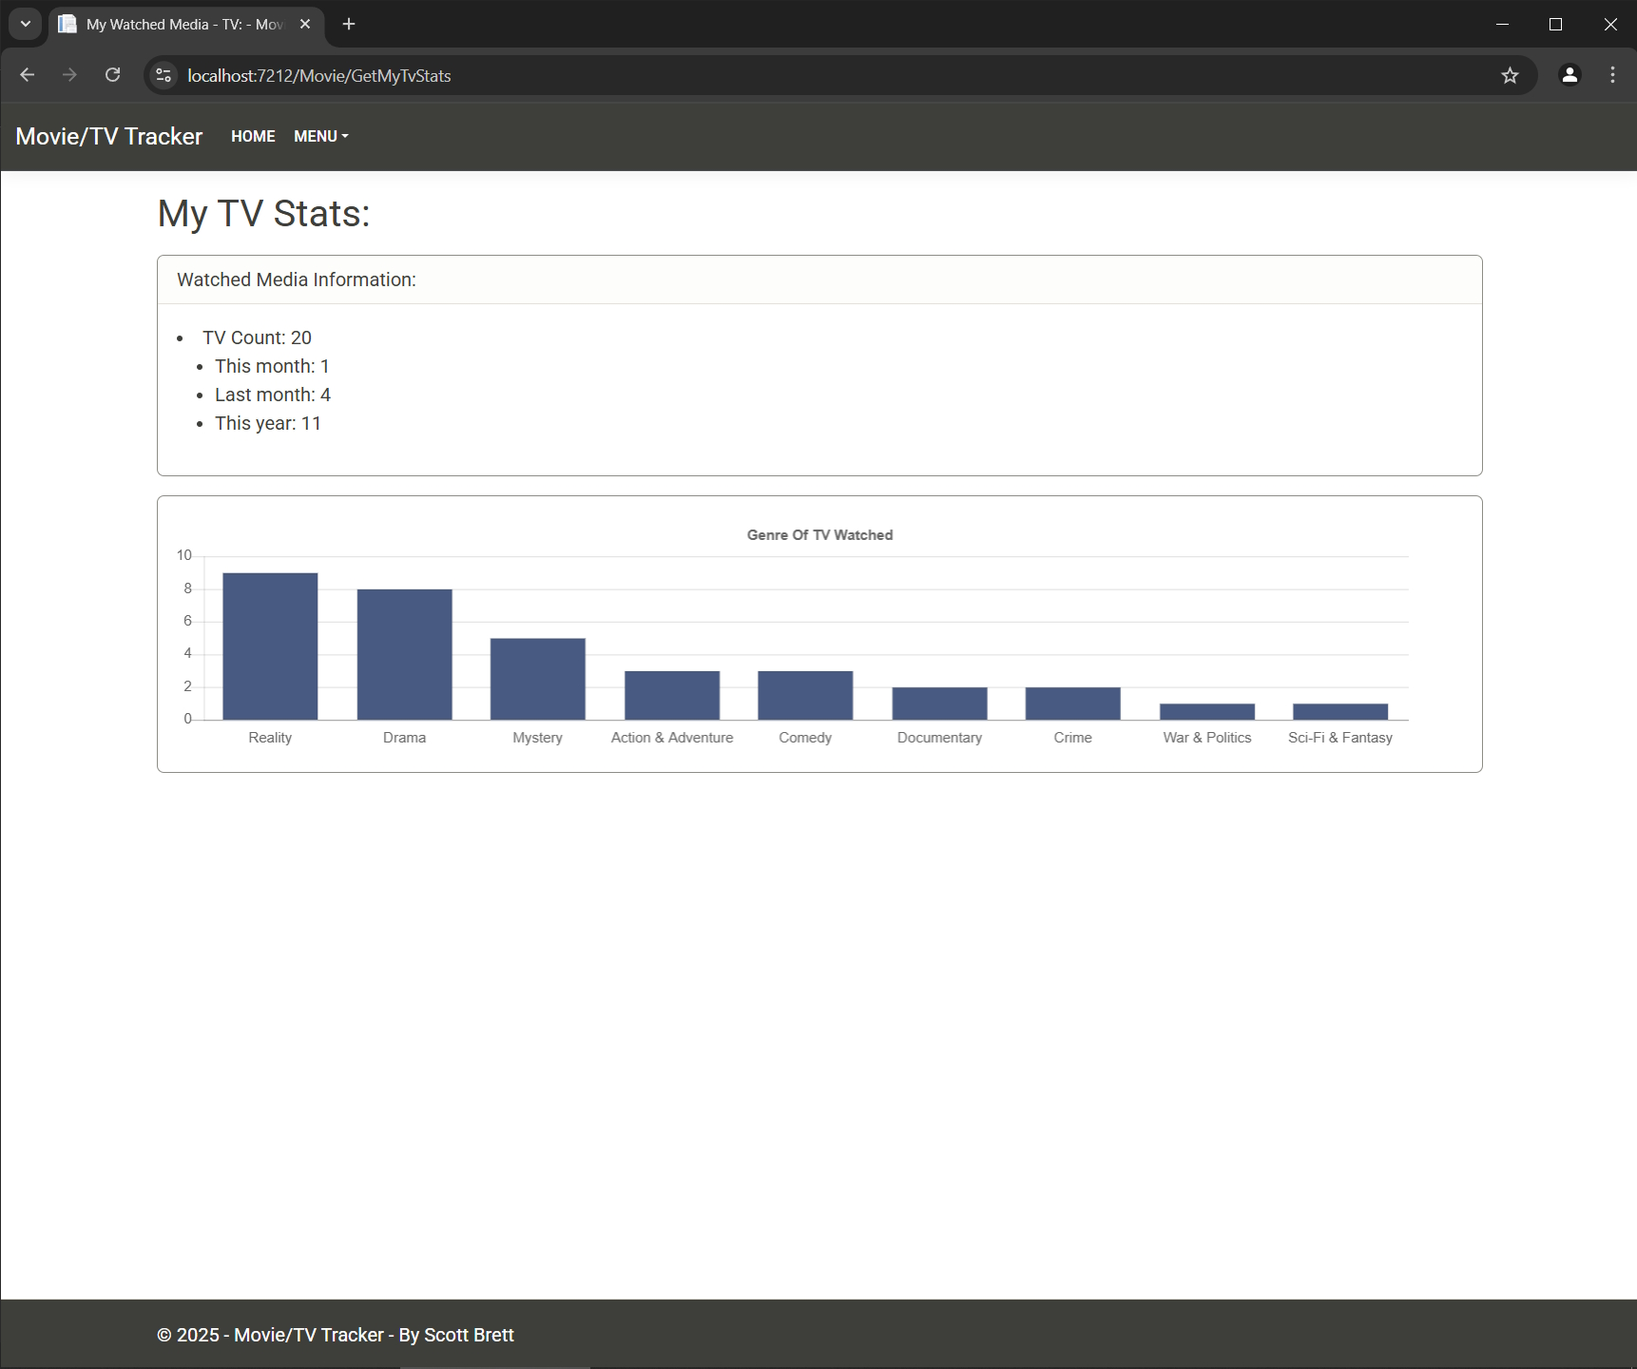
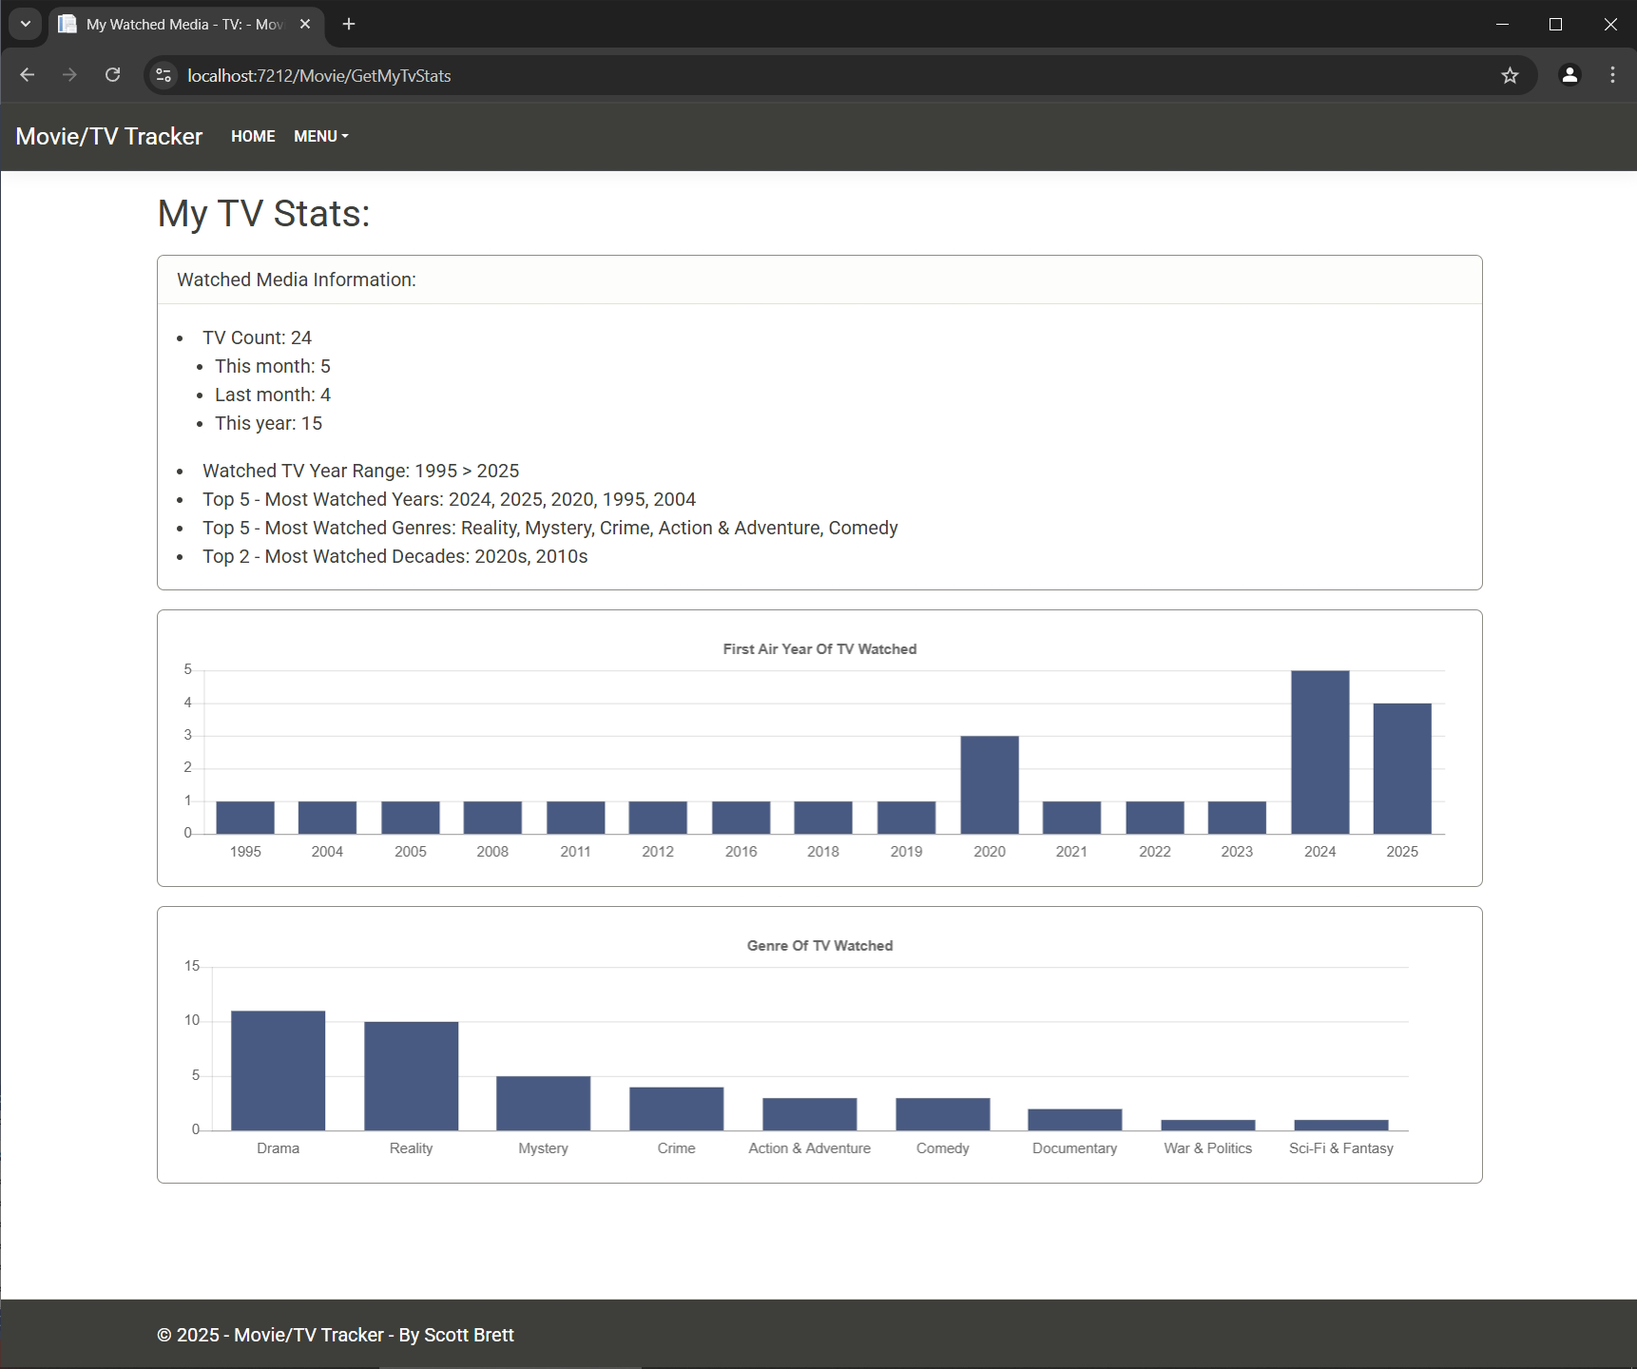
Updated images.  Now shows the same amount of watched media stat data for TV content as it does for Films.  Also performed some code cleanup and class renaming where appropriate for new updated functionality.

Changed region(s): [[0.1231, 0.3438, 0.8926, 0.625], [0.1231, 0.7188, 0.8618, 0.8438], [0.4617, 0.6875, 0.554, 0.7188]]

diff --git a/MovieTvTracker.Web/Class/GetStatistics.cs b/MovieTvTracker.Web/Class/GetStatistics.cs
@@ -7,19 +7,20 @@ namespace MovieTvTracker.Web.Class
     public class GetStatistics : IGetStatistics
     {
         /// <summary>
-        /// Collect data on the release year, genre of each film title and year range watched and save it to the 'stats' object for consumption later.
+        /// Loop through all watched media film results, aquire data on the year, year range, decade, genre for consumption by the view at a later stage
         /// </summary>
         /// <param name="media"></param>
         /// <returns></returns>
+        /// <exception cref="Exception"></exception>
         public IMedia GetFilmYearsRangeAndGenres(IMedia media)
         {
-            foreach (WatchedMediaItem item in media.WatchedMediaResults.WatchedFilms)
+            try
             {
-                try
+                foreach (WatchedMediaItem item in media.WatchedMediaResults.WatchedFilms)
                 {
                     DateTime releaseYear = Convert.ToDateTime(item.ResultReturn.FilmIdResult.release_date);
 
-                    RecordFilmDecade(media.FavoriteFilmDecadeResults, releaseYear.Year);
+                    RecordMediaDecade(media.FavoriteMediaDecadeResults, releaseYear.Year);
 
                     if (media.Stats.FilmYears.Any(x => x.Year == releaseYear.Year))
                     {
@@ -27,60 +28,84 @@ namespace MovieTvTracker.Web.Class
                     }
                     else
                     {
-                        media.Stats.FilmYears.Add(new FilmYear() { Year = releaseYear.Year, Qty = 1 });
+                        media.Stats.FilmYears.Add(new ContentYear() { Year = releaseYear.Year, Qty = 1 });
                     }
-                }
-                catch (Exception ex)
-                {
-                    // Handle any bad data issues from conversion of 'release_date' to DateTime yet still process working resuls
-                    // TODO: Add error handling
+
+                    foreach (Genre genre in item.ResultReturn.FilmIdResult.genres)
+                    {
+                        if (media.Stats.FilmGenres.Any(x => x.Genre == genre.name))
+                        {
+                            media.Stats.FilmGenres.Where(x => x.Genre == genre.name).Select(x => x.Qty = x.Qty + 1).ToList();
+                        }
+                        else
+                        {
+                            media.Stats.FilmGenres.Add(new ContentGenre() { Genre = genre.name, Qty = 1 });
+                        }
+                    }
                 }
 
-                foreach (Genre genre in item.ResultReturn.FilmIdResult.genres)
-                {
-                    if (media.Stats.FilmGenres.Any(x => x.Genre == genre.name))
-                    {
-                        media.Stats.FilmGenres.Where(x => x.Genre == genre.name).Select(x => x.Qty = x.Qty + 1).ToList();
-                    }
-                    else
-                    {
-                        media.Stats.FilmGenres.Add(new ContentGenre() { Genre = genre.name, Qty = 1 });
-                    }
-                }
+                media.Stats.FilmYears = media.Stats.FilmYears.OrderBy(x => x.Year).ToList();
+                media.Stats.FilmGenres = media.Stats.FilmGenres.OrderByDescending(x => x.Qty).ToList();
+                media.FilmYearRange = string.Format("{0} > {1}", media.Stats.FilmYears.First().Year.ToString(), media.Stats.FilmYears.Last().Year.ToString());
+
+                GetFilmTopYearsGenresDecades(media);
             }
-
-            media.Stats.FilmYears = media.Stats.FilmYears.OrderBy(x => x.Year).ToList();
-            media.Stats.FilmGenres = media.Stats.FilmGenres.OrderByDescending(x => x.Qty).ToList();
-            media.YearRange = string.Format("{0} > {1}", media.Stats.FilmYears.First().Year.ToString(), media.Stats.FilmYears.Last().Year.ToString());
-
-            GetTopYearsGenresDecades(media);
+            catch (Exception ex)
+            {
+                throw new Exception("GetFilmYearsRangeAndGenres", ex);
+            }
 
             return media;
         }
 
         /// <summary>
-        /// Collect data on the genre of each TV title watched and save it to the 'stats' object for consumption later.
+        /// Loop through all watched media TV results, aquire data on the year, year range, decade, genre for consumption by the view at a later stage
         /// </summary>
         /// <param name="media"></param>
         /// <returns></returns>
-        public IMedia GetTvGenres(IMedia media)
+        /// <exception cref="Exception"></exception>
+        public IMedia GetTvYearsRangeAndGenres(IMedia media)
         {
-            foreach (WatchedMediaItem item in media.WatchedMediaResults.WatchedTV)
+            try
             {
-                foreach (Genre genre in item.ResultReturn.TvIdResult.genres)
+                foreach (WatchedMediaItem item in media.WatchedMediaResults.WatchedTV)
                 {
-                    if (media.Stats.TvGenres.Any(x => x.Genre == genre.name))
+                    DateTime releaseYear = Convert.ToDateTime(item.ResultReturn.TvIdResult.first_air_date);
+
+                    RecordMediaDecade(media.FavoriteMediaDecadeResults, releaseYear.Year);
+
+                    if (media.Stats.TvYears.Any(x => x.Year == releaseYear.Year))
                     {
-                        media.Stats.TvGenres.Where(x => x.Genre == genre.name).Select(x => x.Qty = x.Qty + 1).ToList();
+                        media.Stats.TvYears.Where(x => x.Year == releaseYear.Year).Select(x => x.Qty = x.Qty + 1).ToList();
                     }
                     else
                     {
-                        media.Stats.TvGenres.Add(new ContentGenre() { Genre = genre.name, Qty = 1 });
+                        media.Stats.TvYears.Add(new ContentYear() { Year = releaseYear.Year, Qty = 1 });
+                    }
+
+                    foreach (Genre genre in item.ResultReturn.TvIdResult.genres)
+                    {
+                        if (media.Stats.TvGenres.Any(x => x.Genre == genre.name))
+                        {
+                            media.Stats.TvGenres.Where(x => x.Genre == genre.name).Select(x => x.Qty = x.Qty + 1).ToList();
+                        }
+                        else
+                        {
+                            media.Stats.TvGenres.Add(new ContentGenre() { Genre = genre.name, Qty = 1 });
+                        }
                     }
                 }
-            }
 
-            media.Stats.TvGenres = media.Stats.TvGenres.OrderByDescending(x => x.Qty).ToList();
+                media.Stats.TvYears = media.Stats.TvYears.OrderBy(x => x.Year).ToList();
+                media.Stats.TvGenres = media.Stats.TvGenres.OrderByDescending(x => x.Qty).ToList();
+                media.TvYearRange = string.Format("{0} > {1}", media.Stats.TvYears.First().Year.ToString(), media.Stats.TvYears.Last().Year.ToString());
+
+                GetTvTopYearsGenresDecades(media);
+            }
+            catch(Exception ex)
+            {
+                throw new Exception("GetTvYearsRangeAndGenres", ex);
+            }
 
             return media;
         }
@@ -122,56 +147,69 @@ namespace MovieTvTracker.Web.Class
         }
 
         /// <summary>
-        /// Get the top 5 film years/genres and top 2 film decades and save them to the model
+        /// Turn the collected film result data into string representations for display within the relevant view, filter out genres not wanted for display due to being very common.
         /// </summary>
         /// <param name="media"></param>
-        public void GetTopYearsGenresDecades(IMedia media)
+        public void GetFilmTopYearsGenresDecades(IMedia media)
         {
-            media.TopFiveYears = string.Join(", ", media.Stats.FilmYears.OrderByDescending(x => x.Qty).Take(5).Select(x => x.Year));
+            media.FilmTopFiveYears = string.Join(", ", media.Stats.FilmYears.OrderByDescending(x => x.Qty).Take(5).Select(x => x.Year));
 
-            media.TopFiveGenres = string.Join(", ", media.Stats.FilmGenres.Where(x => x.Genre != "Drama" && x.Genre != "Thriller").OrderByDescending(x => x.Qty).Take(5).Select(x => x.Genre));
+            media.FilmTopFiveGenres = string.Join(", ", media.Stats.FilmGenres.Where(x => x.Genre != "Drama" && x.Genre != "Thriller").OrderByDescending(x => x.Qty).Take(5).Select(x => x.Genre));
 
-            media.TopTwoDecades = string.Join(", ", media.FavoriteFilmDecadeResults.OrderByDescending(x => x.Count).Take(2).Select(x => x.DecadeName));
+            media.FilmTopTwoDecades = string.Join(", ", media.FavoriteMediaDecadeResults.OrderByDescending(x => x.Count).Take(2).Select(x => x.DecadeName));
         }
 
         /// <summary>
-        /// Record what decade the current film year result falls into and save it to a model for later data consumption
+        /// Turn the collected TV result data into string representations for display within the relevant view, filter out genres not wanted for display due to being very common.
         /// </summary>
-        /// <param name="favoriteFilmDecadeColl"></param>
+        /// <param name="media"></param>
+        public void GetTvTopYearsGenresDecades(IMedia media)
+        {
+            media.TvTopFiveYears = string.Join(", ", media.Stats.TvYears.OrderByDescending(x => x.Qty).Take(5).Select(x => x.Year));
+
+            media.TvTopFiveGenres = string.Join(", ", media.Stats.TvGenres.Where(x => x.Genre != "Drama" && x.Genre != "Thriller").OrderByDescending(x => x.Qty).Take(5).Select(x => x.Genre));
+
+            media.TvTopTwoDecades = string.Join(", ", media.FavoriteMediaDecadeResults.OrderByDescending(x => x.Count).Take(2).Select(x => x.DecadeName));
+        }
+
+        /// <summary>
+        /// Decide what decade each year result fits into and count the quantity of results for each
+        /// </summary>
+        /// <param name="favoriteMediaDecadeResults"></param>
         /// <param name="year"></param>
-        public void RecordFilmDecade(List<FavoriteFilmDecade> favoriteFilmDecadeResults, int year)
+        public void RecordMediaDecade(List<FavoriteDecade> favoriteMediaDecadeResults, int year)
         {
             if (year >= 1950 && year <= 1959)
             {
-                favoriteFilmDecadeResults.Where(w => w.DecadeName == "50s").ToList().ForEach(x => x.Count = x.Count + 1);
+                favoriteMediaDecadeResults.Where(w => w.DecadeName == "50s").ToList().ForEach(x => x.Count = x.Count + 1);
             }
             else if (year >= 1960 && year <= 1969)
             {
-                favoriteFilmDecadeResults.Where(w => w.DecadeName == "60s").ToList().ForEach(x => x.Count = x.Count + 1);
+                favoriteMediaDecadeResults.Where(w => w.DecadeName == "60s").ToList().ForEach(x => x.Count = x.Count + 1);
             }
             else if (year >= 1970 && year <= 1979)
             {
-                favoriteFilmDecadeResults.Where(w => w.DecadeName == "70s").ToList().ForEach(x => x.Count = x.Count + 1);
+                favoriteMediaDecadeResults.Where(w => w.DecadeName == "70s").ToList().ForEach(x => x.Count = x.Count + 1);
             }
             else if (year >= 1980 && year <= 1989)
             {
-                favoriteFilmDecadeResults.Where(w => w.DecadeName == "80s").ToList().ForEach(x => x.Count = x.Count + 1);
+                favoriteMediaDecadeResults.Where(w => w.DecadeName == "80s").ToList().ForEach(x => x.Count = x.Count + 1);
             }
             else if (year >= 1990 && year <= 1999)
             {
-                favoriteFilmDecadeResults.Where(w => w.DecadeName == "90s").ToList().ForEach(x => x.Count = x.Count + 1);
+                favoriteMediaDecadeResults.Where(w => w.DecadeName == "90s").ToList().ForEach(x => x.Count = x.Count + 1);
             }
             else if (year >= 2000 && year <= 2009)
             {
-                favoriteFilmDecadeResults.Where(w => w.DecadeName == "2000s").ToList().ForEach(x => x.Count = x.Count + 1);
+                favoriteMediaDecadeResults.Where(w => w.DecadeName == "2000s").ToList().ForEach(x => x.Count = x.Count + 1);
             }
             else if (year >= 2010 && year <= 2019)
             {
-                favoriteFilmDecadeResults.Where(w => w.DecadeName == "2010s").ToList().ForEach(x => x.Count = x.Count + 1);
+                favoriteMediaDecadeResults.Where(w => w.DecadeName == "2010s").ToList().ForEach(x => x.Count = x.Count + 1);
             }
             else if (year >= 2020 && year <= 2029)
             {
-                favoriteFilmDecadeResults.Where(w => w.DecadeName == "2020s").ToList().ForEach(x => x.Count = x.Count + 1);
+                favoriteMediaDecadeResults.Where(w => w.DecadeName == "2020s").ToList().ForEach(x => x.Count = x.Count + 1);
             }
         }
     }

diff --git a/MovieTvTracker.Web/Models/Media.cs b/MovieTvTracker.Web/Models/Media.cs
@@ -10,7 +10,7 @@ namespace MovieTvTracker.Web.Models
         public PaginatedList<FavoriteActor> PaginatedFavoriteActorList { get; set; }
         public PaginatedList<WatchedMedia> PaginatedWatchedMediaList { get; set; }
         public List<ResultReturn> FavoriteActorResults { get; set; }
-        public List<FavoriteFilmDecade> FavoriteFilmDecadeResults { get; set; }
+        public List<FavoriteDecade> FavoriteMediaDecadeResults { get; set; }
         public ResultReturn TMDBData { get; set; }
         public WatchedMediaResults WatchedMediaResults { get; set; }
         public Stats Stats { get; set; }
@@ -22,10 +22,14 @@ namespace MovieTvTracker.Web.Models
         public Int32 FilmsLastMonth { get; set; }
         public Int32 TvThisMonth { get; set; }
         public Int32 TvLastMonth { get; set; }
-        public string TopTwoDecades { get; set; }
-        public string TopFiveYears { get; set; }
-        public string TopFiveGenres { get; set; }
-        public string YearRange { get; set; }
+        public string FilmTopTwoDecades { get; set; }
+        public string FilmTopFiveYears { get; set; }
+        public string FilmTopFiveGenres { get; set; }
+        public string TvTopTwoDecades { get; set; }
+        public string TvTopFiveYears { get; set; }
+        public string TvTopFiveGenres { get; set; }
+        public string FilmYearRange { get; set; }
+        public string TvYearRange { get; set; }
         public string SelectedContentType { get; set; }
         public string Keyword { get; set; }
         public bool EnglishResultOnly { get; set; }
@@ -33,16 +37,16 @@ namespace MovieTvTracker.Web.Models
         public Media()
         {
             FavoriteActorResults = new List<ResultReturn>();
-            FavoriteFilmDecadeResults = new List<FavoriteFilmDecade>();
+            FavoriteMediaDecadeResults = new List<FavoriteDecade>();
 
-            FavoriteFilmDecadeResults.Add(new FavoriteFilmDecade() { DecadeName = "50s", Count = 0 });
-            FavoriteFilmDecadeResults.Add(new FavoriteFilmDecade() { DecadeName = "60s", Count = 0 });
-            FavoriteFilmDecadeResults.Add(new FavoriteFilmDecade() { DecadeName = "70s", Count = 0 });
-            FavoriteFilmDecadeResults.Add(new FavoriteFilmDecade() { DecadeName = "80s", Count = 0 });
-            FavoriteFilmDecadeResults.Add(new FavoriteFilmDecade() { DecadeName = "90s", Count = 0 });
-            FavoriteFilmDecadeResults.Add(new FavoriteFilmDecade() { DecadeName = "2000s", Count = 0 });
-            FavoriteFilmDecadeResults.Add(new FavoriteFilmDecade() { DecadeName = "2010s", Count = 0 });
-            FavoriteFilmDecadeResults.Add(new FavoriteFilmDecade() { DecadeName = "2020s", Count = 0 });
+            FavoriteMediaDecadeResults.Add(new FavoriteDecade() { DecadeName = "50s", Count = 0 });
+            FavoriteMediaDecadeResults.Add(new FavoriteDecade() { DecadeName = "60s", Count = 0 });
+            FavoriteMediaDecadeResults.Add(new FavoriteDecade() { DecadeName = "70s", Count = 0 });
+            FavoriteMediaDecadeResults.Add(new FavoriteDecade() { DecadeName = "80s", Count = 0 });
+            FavoriteMediaDecadeResults.Add(new FavoriteDecade() { DecadeName = "90s", Count = 0 });
+            FavoriteMediaDecadeResults.Add(new FavoriteDecade() { DecadeName = "2000s", Count = 0 });
+            FavoriteMediaDecadeResults.Add(new FavoriteDecade() { DecadeName = "2010s", Count = 0 });
+            FavoriteMediaDecadeResults.Add(new FavoriteDecade() { DecadeName = "2020s", Count = 0 });
 
             Stats = new Stats();
             EnglishResultOnly = true;

diff --git a/MovieTvTracker.Web/Interfaces/IMedia.cs b/MovieTvTracker.Web/Interfaces/IMedia.cs
@@ -10,7 +10,7 @@ namespace MovieTvTracker.Web.Interfaces
         PaginatedList<FavoriteActor> PaginatedFavoriteActorList { get; set; }
         PaginatedList<WatchedMedia> PaginatedWatchedMediaList { get; set; }
         List<ResultReturn> FavoriteActorResults { get; set; }
-        List<FavoriteFilmDecade> FavoriteFilmDecadeResults { get; set; }
+        List<FavoriteDecade> FavoriteMediaDecadeResults { get; set; }
         ResultReturn TMDBData { get; set; }
         WatchedMediaResults WatchedMediaResults { get; set; }
         Stats Stats { get; set; }
@@ -22,10 +22,14 @@ namespace MovieTvTracker.Web.Interfaces
         Int32 FilmsLastMonth { get; set; }
         Int32 TvThisMonth { get; set; }
         Int32 TvLastMonth { get; set; }
-        string TopTwoDecades { get; set; }
-        string TopFiveYears { get; set; }
-        string TopFiveGenres { get; set; }
-        string YearRange { get; set; }
+        string FilmTopTwoDecades { get; set; }
+        string FilmTopFiveYears { get; set; }
+        string FilmTopFiveGenres { get; set; }
+        string TvTopTwoDecades { get; set; }
+        string TvTopFiveYears { get; set; }
+        string TvTopFiveGenres { get; set; }
+        string FilmYearRange { get; set; }
+        string TvYearRange { get; set; }
         string SelectedContentType { get; set; }
         string Keyword { get; set; }
         bool EnglishResultOnly { get; set; }

diff --git a/MovieTvTracker.Web/Interfaces/IGetStatistics.cs b/MovieTvTracker.Web/Interfaces/IGetStatistics.cs
@@ -5,9 +5,10 @@ namespace MovieTvTracker.Web.Interfaces
     public interface IGetStatistics
     {
         IMedia GetFilmYearsRangeAndGenres(IMedia media);
-        IMedia GetTvGenres(IMedia media);
+        IMedia GetTvYearsRangeAndGenres(IMedia media);
         IMedia GetQtyViewingStats(IMedia media);
-        void GetTopYearsGenresDecades(IMedia media);
-        void RecordFilmDecade(List<FavoriteFilmDecade> favoriteFilmDecadeColl, int year);
+        void GetFilmTopYearsGenresDecades(IMedia media);
+        void GetTvTopYearsGenresDecades(IMedia media);
+        void RecordMediaDecade(List<FavoriteDecade> favoriteMediaDecadeResults, int year);
     }
 }

diff --git a/MovieTvTracker.Web/Models/Stats.cs b/MovieTvTracker.Web/Models/Stats.cs
@@ -2,14 +2,16 @@
 {
     public class Stats
     {
-        public List<FilmYear> FilmYears { get; set; }
+        public List<ContentYear> FilmYears { get; set; }
+        public List<ContentYear> TvYears { get; set; }
         public List<ContentGenre> FilmGenres { get; set; }
         public List<ContentGenre> TvGenres { get; set; }
 
         public Stats()
         {
-            FilmYears = new List<FilmYear>();
+            FilmYears = new List<ContentYear>();
             FilmGenres = new List<ContentGenre>();
+            TvYears = new List<ContentYear>();
             TvGenres = new List<ContentGenre>();
         }
     }

diff --git a/MovieTvTracker.Web/Controllers/MovieController.cs b/MovieTvTracker.Web/Controllers/MovieController.cs
@@ -128,7 +128,7 @@ namespace MovieTvTracker.Web.Controllers
                     });
                 }
 
-                media = stats.GetTvGenres(media);
+                media = stats.GetTvYearsRangeAndGenres(media);
                 media = stats.GetQtyViewingStats(media);
 
                 return View(media);

diff --git a/MovieTvTracker.Web/Models/FavoriteDecade.cs b/MovieTvTracker.Web/Models/FavoriteDecade.cs
@@ -1,6 +1,6 @@
 namespace MovieTvTracker.Web.Models
 {
-    public class FavoriteFilmDecade
+    public class FavoriteDecade
     {
         public string DecadeName { get; set; }
         public Int32 Count { get; set; }

diff --git a/MovieTvTracker.Web/Models/ContentYear.cs b/MovieTvTracker.Web/Models/ContentYear.cs
@@ -1,6 +1,6 @@
 namespace MovieTvTracker.Web.Models
 {
-    public class FilmYear
+    public class ContentYear
     {
         public Int32 Year { get; set; } 
         public Int32 Qty { get; set; }
